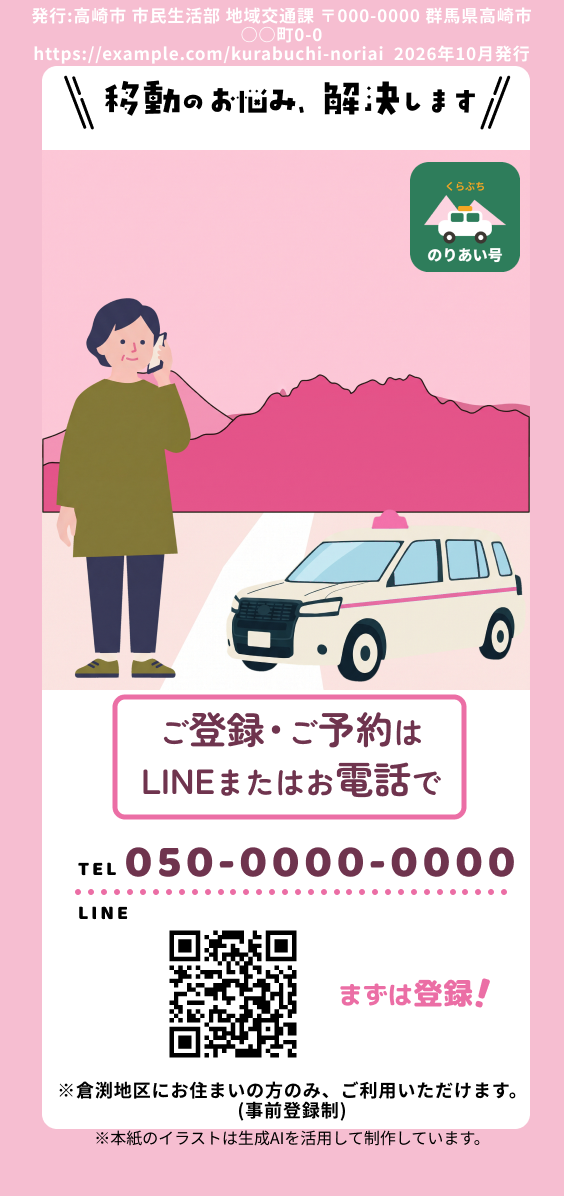
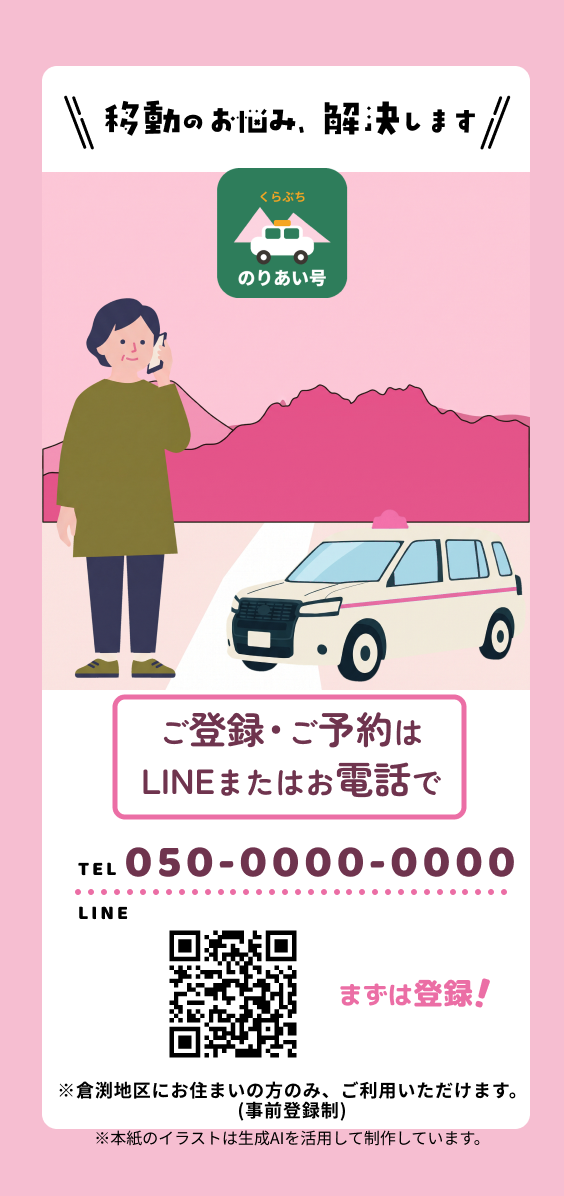
B.1 v2: 案B 修正版(タイトル下げ・発行者情報 非表示・ロゴ横中央 130px)、比較画像と報告 §5

diff --git a/docs/reports/B1v2-cover-relayout.md b/docs/reports/B1v2-cover-relayout.md
@@ -98,3 +98,17 @@
 - `B1v2-shots/case{A,B,C}_face.png` — 各案の表紙面(正立、等倍)、`case{A,B,C}_sheet.png` — フレーム全体(正立化済み)
 - `B1v2-shots/before-71-2_face.png` / `_sheet.png` — 改修前
 - `B1v2-shots/make_compare.py` — スクショ(180° 回転フレーム)から正立の表紙面と比較画像を作る
+
+## 5. 案B 修正版(2026-09-27、Hiro の指摘反映)
+
+Hiro: 「B が良さそう。タイトルの位置はやや下に、発行などのテキストはタイトルがぼやけるので不要、ロゴが一番真ん中にくると良い」→ 案B(2105:342)を次のとおり直した。比較は `B1v2-shots/compare_B_v1_v2.png`(改修前 | 案B 初版 | 案B 修正版)、表紙面等倍 `caseB_face.png`(初版は `caseB-v1_face.png`)。
+
+| 変更 | 内容 |
+|---|---|
+| 発行者情報(#注記:補助金表記) | **非表示**(`visible=false`。ノードは残すので、必要な案件では表示できる) |
+| タイトル(ブロック:表紙サブコピー) | y 76 → **96**(飾りごと。パネル上端 66 から 30px) |
+| ロゴ(#サービスロゴ置き場) | 右上 110px → **横中央 130px (1344.1, 168)**。タイトルの直下、ヒーロー上端の空に重ねる。人物(298〜)・車両(509〜)とは重ならない |
+| ヒーロー(#キービジュアル) | (1169, 172) 488×**518**(見え 43.3%、比率 0.942)。CROP の imageTransform を再計算 |
+| その他 | 地域モチーフ (1169,380) 488×143、人物 (1183,298)、車両 (1353,509)、CTA 687〜、注記 1080、AI表記 1128 は初版のまま |
+
+表紙面の検査(修正版): 折り線 Fail 0 / Warn 0(初版の Fail 1 は発行者情報の非表示で消えた)、あふれ 0、白抜き小文字 0、TEXT と # 画像枠の重なり 0(箱の接触はテンプレ由来の 3 件のみ)。一時 clone の残り 0。
